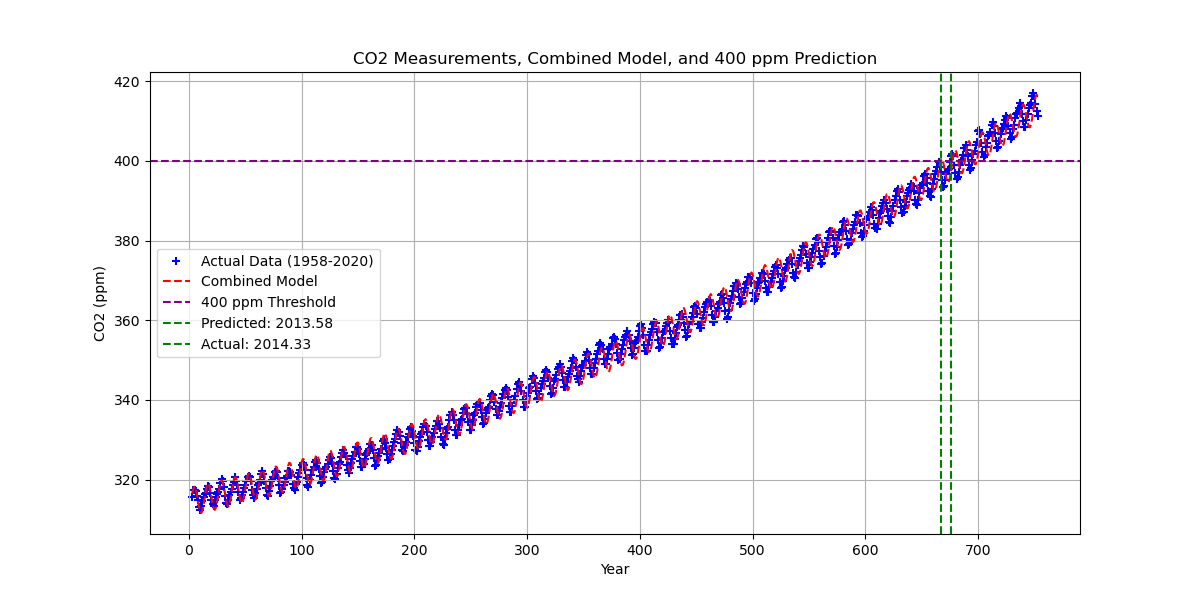
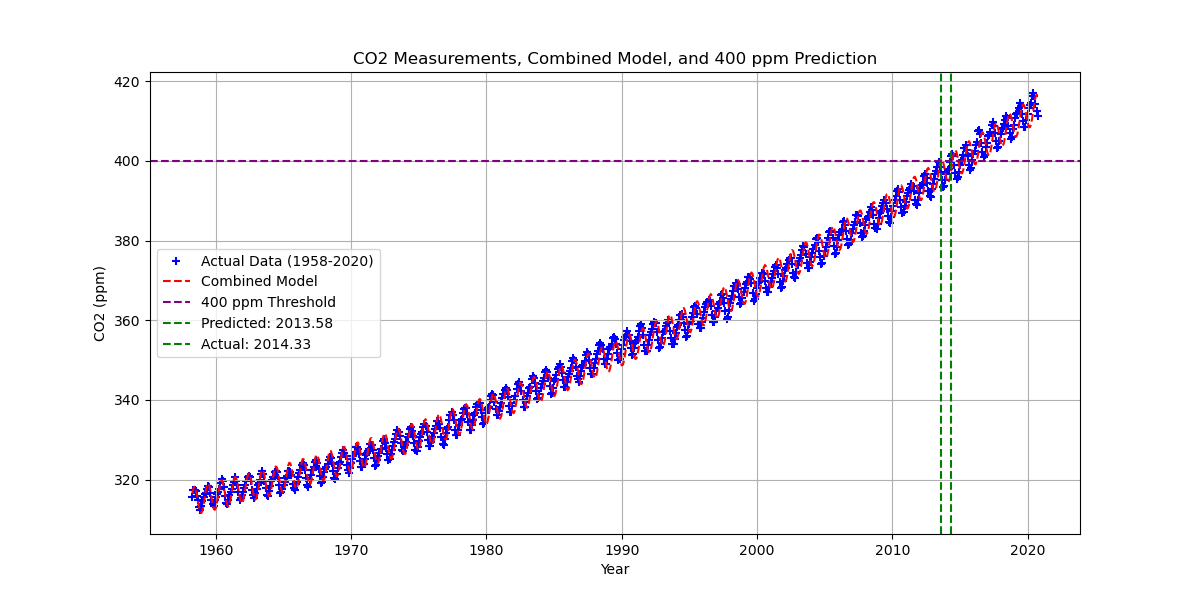
Changed the index of the final grapg

diff --git a/NairMalavika_Lab12.py b/NairMalavika_Lab12.py
@@ -18,7 +18,7 @@ filtered_data['time'] = (filtered_data['year'] - 1981) * 12 + filtered_data['mon
 # Plot the CO2 data
 plt.figure(figsize=(10, 6))
 plt.scatter(filtered_data['time'], filtered_data['average'], marker='+')
-plt.xlabel('Year)')
+plt.xlabel('Year')
 plt.ylabel('CO2 (ppm)')
 plt.title('CO2 Measurements from 1981 to 1990')
 plt.xticks(
@@ -216,23 +216,26 @@ poly_coeffs = np.polynomial.polynomial.polyfit(all_time, df['average'], deg=poly
 # Call function to get combined model fit for all data
 model_fit = combined_model(all_time, A_combined, T_combined, phi_combined, poly_coeffs)
 
+# Adjust the all_time variable to years
+years = 1958 + all_time / 12
+
 # Predict the year CO2 reached 400 ppm using the model
-model_400_index = np.where(model_fit >= 400)[0][0]  
-predicted_time_400 = all_time[model_400_index]  
-predicted_year_400 = 1958 + predicted_time_400 / 12  
+model_400_index = np.where(model_fit >= 400)[0][0]
+predicted_time_400 = years[model_400_index]
+predicted_year_400 = predicted_time_400
 
 # Find the actual year CO2 reached 400 ppm from the data
-actual_400_index = np.where(df['average'] >= 400)[0][0]  
-actual_time_400 = all_time[actual_400_index] 
-actual_year_400 = 1958 + actual_time_400 / 12 
+actual_400_index = np.where(df['average'] >= 400)[0][0]
+actual_time_400 = years[actual_400_index]
+actual_year_400 = actual_time_400
 
-# Plot the full dataset, model, and 400 ppm threshold
+# Plot the full dataset, model, and 400 ppm threshold with years on x-axis
 plt.figure(figsize=(12, 6))
-plt.scatter(all_time, df['average'], color='blue', marker='+', label='Actual Data (1958-2020)')
-plt.plot(all_time, model_fit, color='red', linestyle='--', label='Combined Model')
+plt.scatter(years, df['average'], color='blue', marker='+', label='Actual Data (1958-2020)')
+plt.plot(years, model_fit, color='red', linestyle='--', label='Combined Model')
 plt.axhline(y=400, color='purple', linestyle='--', label='400 ppm Threshold')
-plt.axvline(x=predicted_time_400, color='green', linestyle='--', label=f'Predicted: {predicted_year_400:.2f}')
-plt.axvline(x=actual_time_400, color='green', linestyle='--', label=f'Actual: {actual_year_400:.2f}')
+plt.axvline(x=predicted_year_400, color='green', linestyle='--', label=f'Predicted: {predicted_year_400:.2f}')
+plt.axvline(x=actual_year_400, color='green', linestyle='--', label=f'Actual: {actual_year_400:.2f}')
 plt.xlabel('Year')
 plt.ylabel('CO2 (ppm)')
 plt.title('CO2 Measurements, Combined Model, and 400 ppm Prediction')
@@ -259,3 +262,4 @@ mape = np.mean(np.abs((actual_co2_outside - predicted_co2_outside) / actual_co2_
 
 # Print the results
 print(f"\nThe model predicts CO2 variations with a MAPE of {mape:.2f}%, showing a high level of accuracy and only minor deviations from the actual data.")
+
